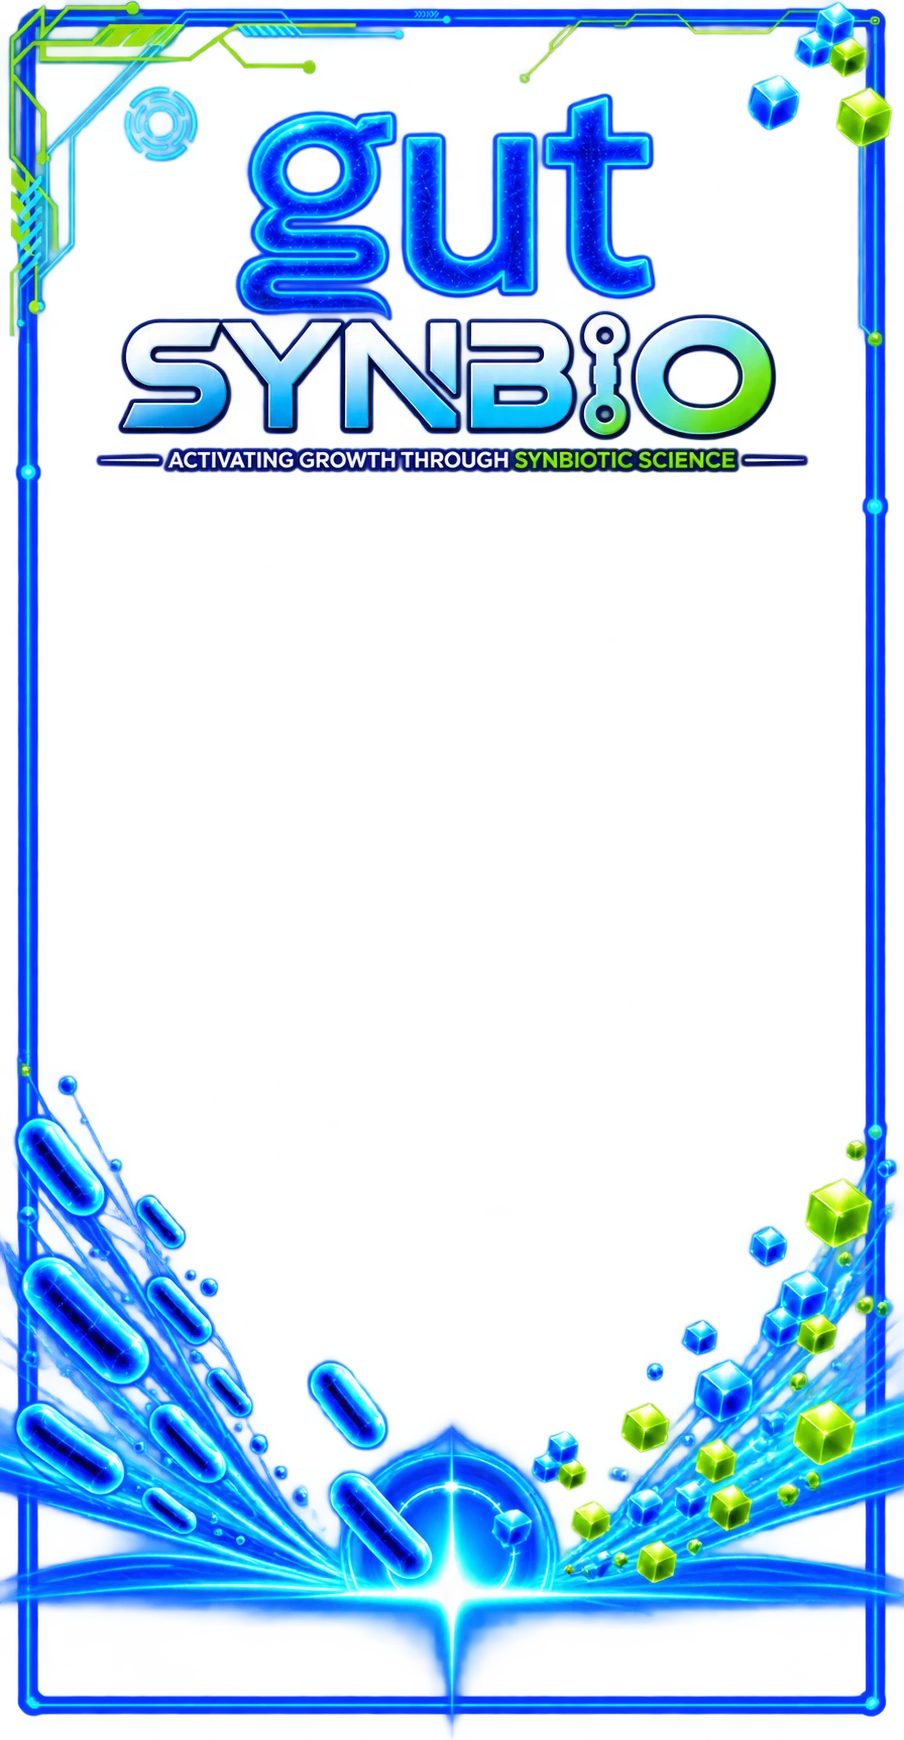
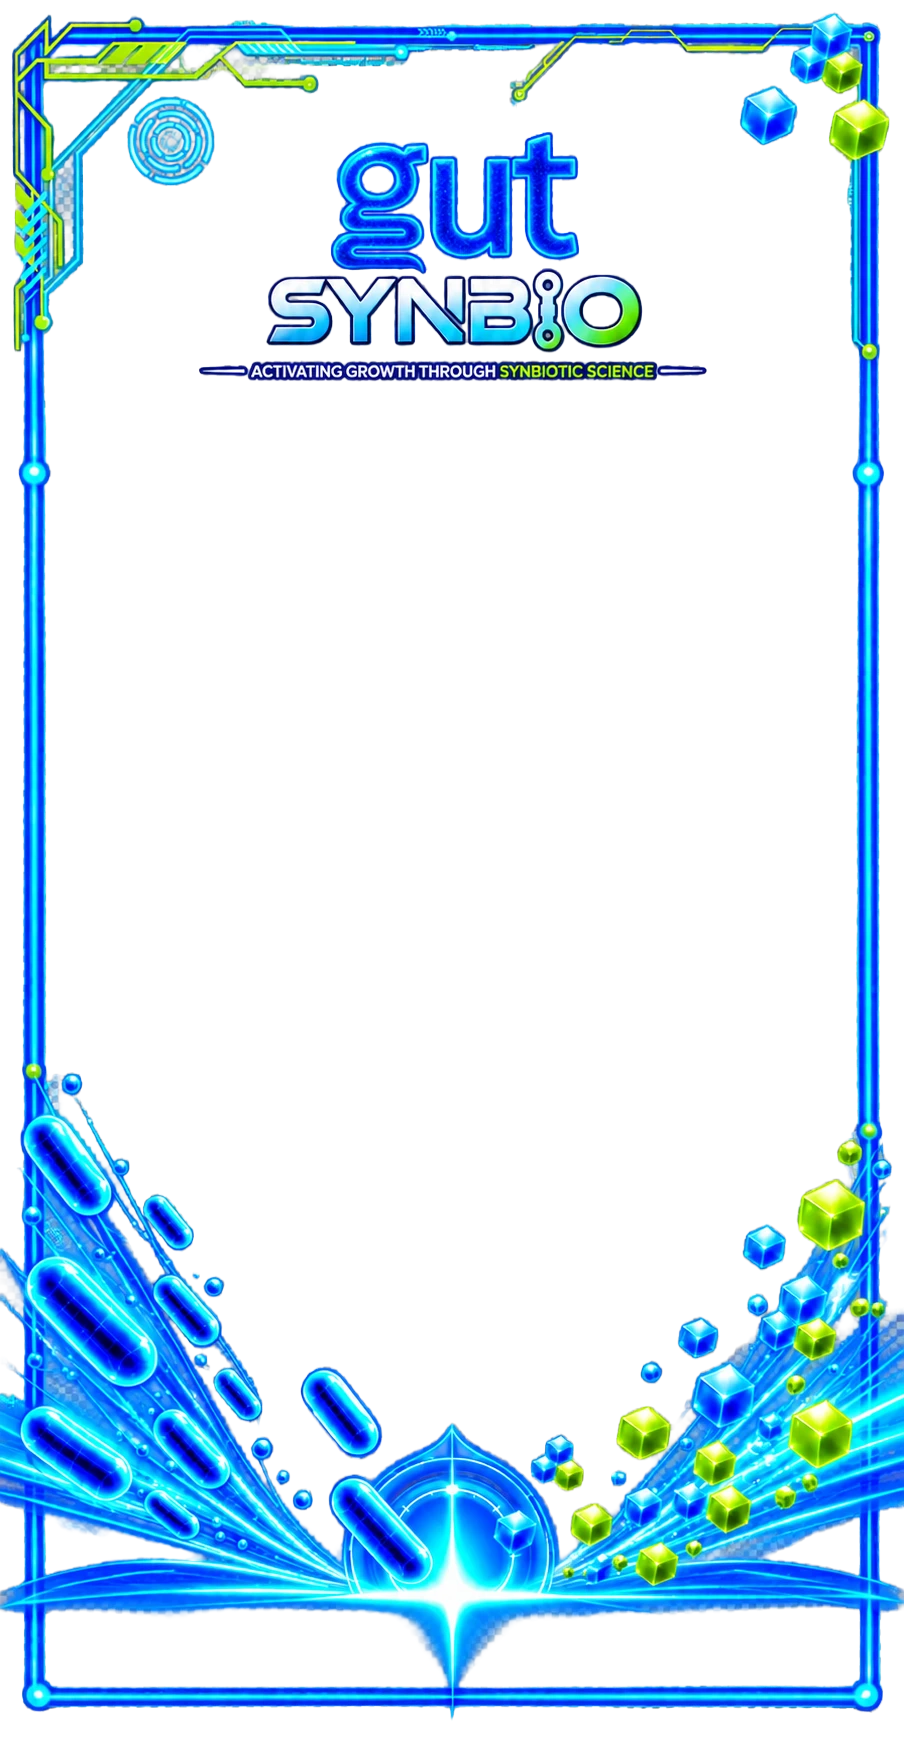
feat: update version to 6.4; add functionality for artwork frame border detection and adjust frame rendering

diff --git a/src/frame.js b/src/frame.js
@@ -428,29 +428,71 @@ function seeded(seed) {
 
 /**
  * Frame 2: a ready-made artwork frame (public/brand/frame-2.webp, logo
- * included). The top (logo) and bottom (light streams) keep their true shape,
- * scaled to the width; only the plain border in between is stretched to fit
- * the screen, so the logo never looks squashed.
+ * included). Its border lines are lined up with the screen edges (the glow
+ * outside them is cut off), the top (logo) and bottom (light streams) keep
+ * their true shape, and only the plain border in between stretches to fit.
+ * `box` = the border's outer edges in the image (from findArtworkBorder).
  * @returns {{ plaqueTop: number }}  where the buttons should stay above (none needed here)
  */
-export function drawArtworkFrame(g, W, H, img) {
+export function drawArtworkFrame(g, W, H, img, box) {
   g.clearRect(0, 0, W, H);
   const iw = img.naturalWidth;
   const ih = img.naturalHeight;
-  const k = W / iw; // scale by width
-  const topSrc = Math.round(ih * ART_TOP);
-  const botSrc = Math.round(ih * ART_BOTTOM);
-  const topH = topSrc * k;
-  const botH = (ih - botSrc) * k;
-  const midH = H - topH - botH;
-  if (midH <= 0) {
-    g.drawImage(img, 0, 0, W, H); // very wide screen: just fit it
+  const b = box ?? { x0: 0, x1: iw - 1, y0: 0, y1: ih - 1 };
+  const k = W / (b.x1 - b.x0 + 1); // border width -> screen width
+  const dx = -b.x0 * k;
+  const dw = iw * k;
+  const T = Math.round(ih * ART_TOP);
+  const B = Math.round(ih * ART_BOTTOM);
+  const topY = -b.y0 * k; // top border on the screen's top edge
+  const botY = H - (b.y1 + 1 - B) * k; // bottom border on the screen's bottom edge
+  const midTop = topY + T * k;
+  if (botY <= midTop) {
+    g.drawImage(img, b.x0, b.y0, b.x1 - b.x0 + 1, b.y1 - b.y0 + 1, 0, 0, W, H); // very wide screen: just fit the border
   } else {
-    g.drawImage(img, 0, 0, iw, topSrc, 0, 0, W, topH);
-    g.drawImage(img, 0, topSrc, iw, botSrc - topSrc, 0, topH, W, midH);
-    g.drawImage(img, 0, botSrc, iw, ih - botSrc, 0, H - botH, W, botH);
+    g.drawImage(img, 0, 0, iw, T, dx, topY, dw, T * k);
+    g.drawImage(img, 0, T, iw, B - T, dx, midTop, dw, botY - midTop);
+    g.drawImage(img, 0, B, iw, ih - B, dx, botY, dw, (ih - B) * k);
   }
   return { plaqueTop: H };
 }
-const ART_TOP = 0.31; // frame-2.webp: the logo ends above this share of its height
-const ART_BOTTOM = 0.57; // ...and the bottom artwork starts below this
+
+/**
+ * Find the outer edges of the frame's border lines in the artwork: the
+ * columns / rows that are solid along most of the plain middle part.
+ */
+export function findArtworkBorder(img) {
+  const W = img.naturalWidth;
+  const H = img.naturalHeight;
+  const c = document.createElement('canvas');
+  c.width = W;
+  c.height = H;
+  const g = c.getContext('2d', { willReadFrequently: true });
+  g.drawImage(img, 0, 0);
+  const d = g.getImageData(0, 0, W, H).data;
+  const solid = (x, y) => d[(y * W + x) * 4 + 3] > 180;
+  const share = (n, t) => (t ? n / t : 0);
+  const colSolid = (x) => {
+    let n = 0, t = 0;
+    for (let y = Math.floor(H * ART_TOP); y < H * ART_BOTTOM; y += 2, t++) if (solid(x, y)) n++;
+    return share(n, t) > 0.85;
+  };
+  const rowSolid = (y, x0, x1) => {
+    let n = 0, t = 0;
+    for (let x = Math.floor(x0); x < x1; x += 2, t++) if (solid(x, y)) n++;
+    return share(n, t) > 0.85;
+  };
+  let x0 = 0;
+  while (x0 < W / 3 && !colSolid(x0)) x0++;
+  let x1 = W - 1;
+  while (x1 > (W * 2) / 3 && !colSolid(x1)) x1--;
+  // top/bottom lines: check a stretch of the border away from the corner art
+  let y0 = 0;
+  while (y0 < H / 6 && !rowSolid(y0, W * 0.3, W * 0.45)) y0++;
+  let y1 = H - 1;
+  while (y1 > (H * 5) / 6 && !rowSolid(y1, W * 0.05, W * 0.2)) y1--;
+  const ok = x0 < W / 3 && x1 > (W * 2) / 3 && y0 < H / 6 && y1 > (H * 5) / 6;
+  return ok ? { x0, x1, y0, y1 } : null;
+}
+const ART_TOP = 0.24; // frame-2.webp: the logo and corner art end above this share of its height
+const ART_BOTTOM = 0.59; // ...and the bottom artwork starts below this

diff --git a/src/arScene.js b/src/arScene.js
@@ -15,7 +15,7 @@ import * as THREE from 'three';
 import { RoomEnvironment } from 'three/addons/environments/RoomEnvironment.js';
 import { createTextRing, createLogoText, createBadgeRing, createGlitter, makeBadgeTexture, faceCamera } from './rings.js';
 import { FireworksFX } from './fireworks.js';
-import { drawBoothFrame, drawArtworkFrame } from './frame.js';
+import { drawBoothFrame, drawArtworkFrame, findArtworkBorder } from './frame.js';
 import { LightStream, STREAM_HEIGHT } from './stream.js';
 import { OneEuroFilter, damp, wrapAngle, easeOutBack } from './filters.js';
 
@@ -724,6 +724,7 @@ export class ARScene {
   setOverlay(logo, artwork = null) {
     this._frameLogo = logo;
     this._frameArt = artwork;
+    this._frameArtBox = artwork ? findArtworkBorder(artwork) : null; // where its border lines are
     this._frameKey = '';
     if (!this.overlayMesh) {
       this._frameCanvas = document.createElement('canvas');
@@ -752,7 +753,7 @@ export class ARScene {
     const scale = buf.y / cssH; // canvas px per CSS px
     // frame 2 (artwork) has its own logo, so the classic frame and its logo aren't drawn then
     const { plaqueTop } = useArt
-      ? drawArtworkFrame(cv.getContext('2d'), buf.x, buf.y, this._frameArt)
+      ? drawArtworkFrame(cv.getContext('2d'), buf.x, buf.y, this._frameArt, this._frameArtBox)
       : drawBoothFrame(cv.getContext('2d'), buf.x, buf.y, {
           logo: this._frameLogo,
           logoTop: Math.min(buf.y * 0.2, OVERLAY_LOGO_TOP_PX * scale), // just below the top buttons on screen

diff --git a/src/main.js b/src/main.js
@@ -18,7 +18,7 @@ import { BackgroundMusic } from './music.js';
 
 const BASE = import.meta.env.BASE_URL;
 const MAX_RECORD_SECONDS = 60;
-const APP_VERSION = '6.3'; // shown in settings to confirm the phone has the latest code
+const APP_VERSION = '6.4'; // shown in settings to confirm the phone has the latest code
 const $ = (id) => document.getElementById(id);
 
 let settings = loadSettings();

diff --git a/README.md b/README.md
@@ -2,7 +2,7 @@
 
 A browser-based AR video booth. Point a phone at a person and the 3D brand logo, rising glass capsules and cubes, sparklers and glitter appear around them, with the person correctly cut out so effects can pass behind their body. Press **Lock** to pin everything to a real spot in the room, walk the phone around the person and record. Tap **Submit** to upload the video, and a **QR code** appears so the guest can scan it and download the clip to their own phone. No app install needed.
 
-Current version: **6.3**. It's shown at the top of **Settings → Camera & tracking**; check it to confirm a phone has the latest code.
+Current version: **6.4**. It's shown at the top of **Settings → Camera & tracking**; check it to confirm a phone has the latest code.
 
 ## Features
 
@@ -18,7 +18,7 @@ Current version: **6.3**. It's shown at the top of **Settings → Camera & track
 - **Recording as MP4:** captures the composited AR canvas as a standard **MP4 (H.264 video)**. Videos are silent by default (no microphone permission asked); tick **Record sound with the video** in settings to add AAC audio that every phone, gallery and messaging app plays. It uses the phone's hardware encoder through WebCodecs plus [mp4-muxer](https://github.com/Vanilagy/mp4-muxer), which works in Chrome on Android, where the built-in recorder only makes WebM. Before recording it finds an encoder setup that really works on that phone: it tries the screen size, then 16-aligned and slightly smaller sizes, several H.264 profiles and hardware/software encoding, and test-encodes a frame (some Android encoders claim support and then fail). If the phone's hardware H.264 encoder is missing or broken, it records smoothly with **VP9** and **converts it to H.264 in the background while you record**, so after you press stop only the last few seconds are left ("Saving video… 90%"). The conversion uses a WebAssembly H.264 encoder in a background worker ([public/h264-worker.js](public/h264-worker.js), MIT-licensed [h264-mp4-encoder](https://github.com/TrevorSundberg/h264-mp4-encoder) in `public/vendor/`) and keeps every frame, so the result is smooth and a standard H.264 MP4 that **WhatsApp** and every gallery accept. The converted video is 800 px on the long edge (WhatsApp shrinks videos to about 850 px anyway) and has no sound. If converting fails, the VP9 MP4 is kept (plays in galleries and Chrome, but not WhatsApp). If none works it uses the browser's own MP4 recorder (Safari/iOS, Chrome 126+), and only then WebM, in which case a message says why. Saving can never hang: every encoder step has a time limit, a phone encoder that stalls during the first seconds is swapped for the browser's recorder mid-take, and whatever was already encoded is kept if the encoder breaks later. Also has photo capture, download and native share on phones. Recording keeps running through Lock and Unlock.
 - **Submit + QR download:** after recording, the result screen shows **Submit**, **Download** and **Retake**. **Submit** uploads the MP4 to the [AR backend](https://github.com/Zihan231/AR_Backend) with a live progress bar. When it finishes, a QR code appears next to the video; the guest scans it to open a download page on their own phone. If the upload fails, the reason is shown and the button changes to **Retry submit**. **Retake** discards the clip and cancels any upload still running. Nothing is uploaded unless you tap Submit, and photos are never uploaded.
 - **2D photo-booth frame:** a branded frame around the whole video, drawn by the app at the exact screen size ([src/frame.js](src/frame.js)): a glowing cyan → royal → lime border with a white inner line and a navy band outside it, glass capsules down the left side and blue / lime glass cubes down the right (like the 3D icons), molecule networks, tech corner brackets, glowing energy dashes, light streams, sparkles and bubbles, the 2D **gut SYNBIO logo** ([public/brand/overlay-logo.webp](public/brand/overlay-logo.webp)) at the top and a glossy plaque with *ACTIVATING GROWTH THROUGH* **SYNBIOTIC SCIENCE** at the bottom. The record and capture buttons sit just above the plaque. It's part of the AR canvas, so it's in every recorded video and photo, even while locked or in AR mode. **On by default**; untick **Show 2D frame** in settings to hide it. Colours, decorations and text are set in `drawBoothFrame()`.
-- **Two frame styles:** pick **Frame style** at the top of the settings panel. *Frame 1* is the drawn frame (border, decorations, 2D logo, tagline plaque). *Frame 2* is the light-stream artwork frame ([public/brand/frame-2.webp](public/brand/frame-2.webp)), which has its own logo, so Frame 1 and its logo aren't shown then. Frame 2's top (logo) and bottom (light streams) keep their true shape and only the plain border between them stretches to fit the screen.
+- **Two frame styles:** pick **Frame style** at the top of the settings panel. *Frame 1* is the drawn frame (border, decorations, 2D logo, tagline plaque). *Frame 2* is the light-stream artwork frame ([public/brand/frame-2.webp](public/brand/frame-2.webp)), which has its own logo, so Frame 1 and its logo aren't shown then. Frame 2's border lines are found in the picture automatically and lined up with the screen edges; its top (logo) and bottom (light streams) keep their true shape and only the plain border between them stretches to fit the screen. Replace the file to use another frame of the same kind.
 - **Rising objects dodge your hands:** when the person moves a hand near the rising capsules and cubes, they're pushed away from it and then drift back to their path (wrists and index fingers from body tracking; not in AR world-lock mode).
 - **Start-up defaults:** the app opens with the **2D frame** and the **rising 3D objects** on, and the **3D logo + side icons off** (tick **Show 3D elements** to bring them in).
 - **3D switches:** at the top of the settings panel, **Show 3D elements** hides the 3D logo, side icons, sparkles and fountains, and **Show rising 3D objects** separately controls the capsules, cubes and bubbles rising from the floor. So you can show only the rising objects, only the logo, both or neither. The camera image (and the 2D banner, if on) is always shown and recorded.
